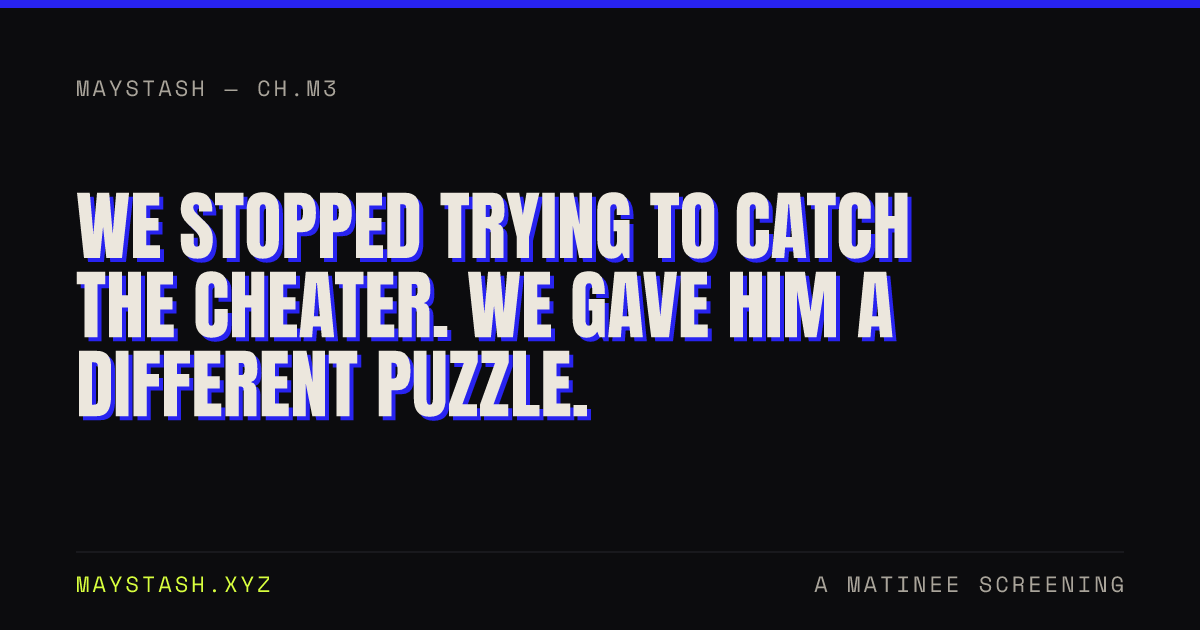
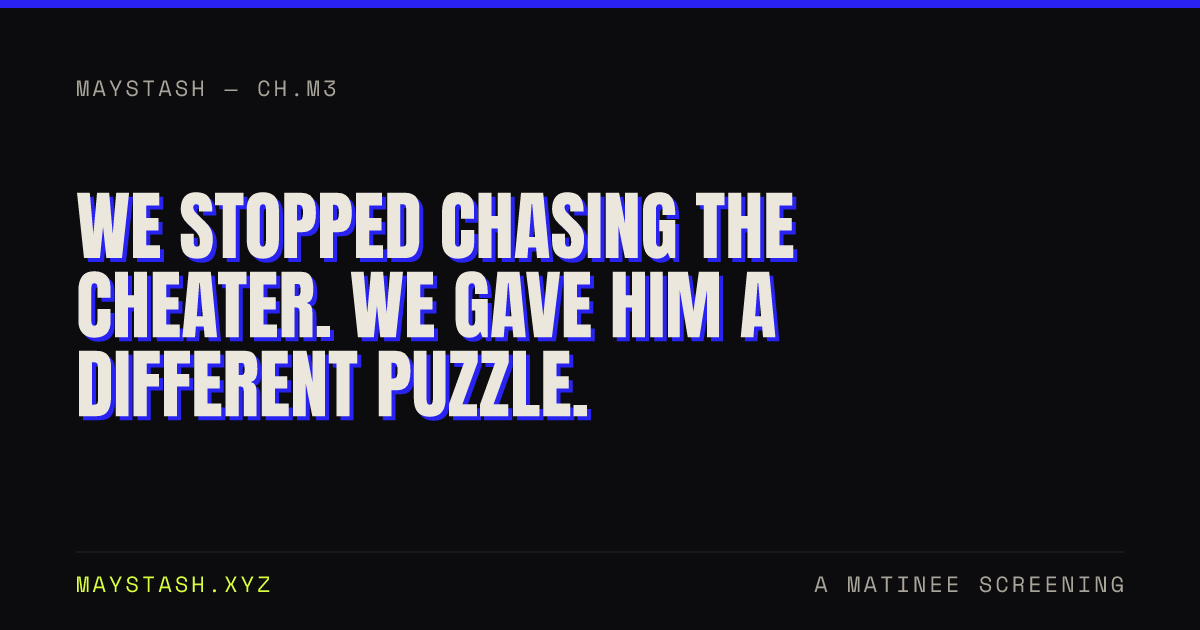
draft: tighten CH.M3 — cut a third, sharpen the beats
Down to ~1,000 words, matching part one's length. Title now leads with
the reversal ("Stopped Chasing"). Five lessons cut to three, audit
section compressed, catch-up trimmed to a line. Scene beats kept:
the morning the game lied to him, the labelled warm-up, the email
that reached the cheater.

Changed region(s): [[0.0617, 0.3016, 0.7708, 0.5429]]

diff --git a/x-article-we-gave-him-a-different-puzzle.md b/x-article-we-gave-him-a-different-puzzle.md
@@ -1,113 +1,101 @@
 # X Article — we-gave-him-a-different-puzzle (follow-up to player-who-never-lost)
 
-Post via X's Article composer (long-form), not a thread. Same body works as-is for LinkedIn — this is the follow-up to the CH.M2 piece already posted there, and it opens by quoting it, so post it as a reply/comment link on that original LinkedIn post too. Cover image: `public/og/we-gave-him-a-different-puzzle.png`. Canonical link at bottom.
+Post via X's Article composer (long-form), not a thread. Same body works as-is for LinkedIn — it's the sequel to the CH.M2 piece already posted there and opens by quoting it, so drop it as a follow-up on that original LinkedIn post. Cover image: `public/og/we-gave-him-a-different-puzzle.png`. Canonical link at bottom.
 
 **Do not** add detail about how the detection actually works — no timing windows, no account-shape conditions, no network/IP signals, no strike counts. See `SecondBrain/memory/projects/dinjure.md`. The warm-up round itself is public and labelled in-app, so describing *that* is fine.
 
 ---
 
-## We Stopped Trying to Catch the Cheater. We Gave Him a Different Puzzle.
+## We Stopped Chasing the Cheater. We Gave Him a Different Puzzle.
 
-Three days ago I published the story of a player on our daily puzzle game who never lost — and how that turned out to be our bug, not his talent. It ended like this:
+Three days ago I published the story of a player on our daily puzzle game who never lost — and how that was our bug, not his talent. It ended like this:
 
 > "The scoreboard's clean again. For now — which is the only version of 'clean' anyone ever actually gets."
 
-I meant that as a wry sign-off. It turned out to be a schedule. *For now* lasted about a day.
+I meant it as a wry sign-off. It was a schedule. *For now* lasted about a day.
 
-This is the sequel, and it has a better ending — because we finally stopped playing detective.
+### The trap of catching people
 
-### Previously, in two sentences
+Quick catch-up: everyone in the world gets the same secret code each day. He'd found a way to see it early, and our answer was to spot the pattern and quietly stop counting his score.
 
-Our daily puzzle gives everyone in the world the same secret code. First we accidentally shipped the recipe for that code inside the game itself, so one player could read the answer key off his own screen. We fixed that; he came back with a second trick — burn through the puzzle on a throwaway account, read the answer off the ending screen, then go solve it "properly" on his real account.
+That worked. Every day. Which sounds like winning.
 
-### He came back. Then he came back again.
+It isn't. Here's what nobody tells you: every time you catch someone, you teach them. He'd adjust. We'd catch the adjustment. He'd adjust again. Each round our rule got longer, and each round he learned the shape of the net by feeling where it wasn't.
 
-Our answer to trick two was to notice the pattern and quietly stop counting scores that showed it. That worked. It kept working, day after day, which sounds like a win.
+That's not security. That's a subscription — and he sets the billing cycle.
 
-It isn't. Here's the thing nobody tells you about catching cheaters: every time you catch someone, you teach them. He'd adjust. We'd catch the adjustment. He'd adjust again. Each round our rule got longer and more specific, and each round he learned a little more about the shape of the net by feeling where it wasn't.
+### The morning the game lied to him
 
-That's not security. That's a subscription. You pay it forever, in attention, and the other person sets the billing cycle.
-
-### The day the game lied to him
-
-Then something funny happened. He tried a version of the trick that skipped signing in altogether — no account at all, not even a throwaway.
+Then he tried a version of the trick with no account at all. Not even a throwaway. Just an anonymous browser window.
 
 And the game handed him a wrong number.
 
-Not on purpose. It was a leftover: the part of our game that works offline still used the old way of making a code, from before we moved the real answer onto our own machines. So a player who never signs in never touches the real puzzle. He grades himself against a ghost.
+Not on purpose. Leftover plumbing: the part of our game that works offline still made codes the old way, from before we moved the real answer onto our own machines. Nobody signed in ever touches the real puzzle. They're graded against a ghost.
 
-He spent that morning solving a code that wasn't the code, then carried it back to his real account and posted his worst result in ten days.
+So he spent that morning cracking a code that wasn't the code, carried it triumphantly back to his real account, and posted his worst result in ten days.
 
-We hadn't built a trap. We'd left one lying around. And staring at it, the actual fix got obvious.
+We hadn't built a trap. We'd left one lying around. And staring at it, the fix finally got obvious.
 
-### What we resorted to: a real puzzle, just not *the* puzzle
+### What we resorted to
 
-Stop asking *how do we spot him.* Ask *what is he actually taking?*
+Stop asking *how do we spot him*. Ask *what is he taking?*
 
-He was taking the ending. The reveal. Every route he found — the answer key, the throwaway account, the signed-out session — was a different way to reach the last screen of today's puzzle before doing it honestly.
+He was taking the ending. Every route he'd found — the answer key, the throwaway account, the anonymous window — was just a cheaper way to reach today's last screen before earning it.
 
-So we stopped defending the ending and removed it from the places he could cheaply reach.
+So we stopped guarding the ending and removed it from everywhere cheap.
 
-As of this week, if you're not signed in, you play a warm-up round. It's a genuine puzzle — same rules, same feedback, same feel. It just isn't today's ranked one. Everyone signed out gets the same warm-up code, and it has nothing to do with the real answer.
+Now, if you're not signed in, you play a warm-up round. A real puzzle. Same rules, same feel. Just not today's ranked one. Scout it all you like, burn ten throwaway accounts on it — at the end you're holding a number that was never the answer to anything.
 
-Scout it all you want. Burn ten throwaway accounts on it. At the end you're holding a number that was never the answer to anything that counts.
+The ranked daily needs an account you keep. Which is precisely what a disposable identity can't be.
 
-The ranked daily now requires an account — one you keep, that keeps your streak and your history and your name. Exactly the thing a disposable identity can't be.
+Detection is rent. This was a purchase.
 
-That's the whole switch: from catching people after, to there being nothing worth stealing. Detection is rent. This was a purchase.
+### Why we put it on the screen
 
-### We labelled it instead of hiding it
+The obvious version is a silent decoy: quietly serve suspicious players a fake puzzle, let them waste the morning. We deliberately didn't. It says "warm-up round," in plain words, to everyone.
 
-The obvious version of this idea is a silent decoy — quietly hand suspicious players a fake puzzle and let them waste their morning without knowing.
+Partly honesty — our game shows a receipt at the end proving the answer wasn't rigged, and showing that receipt to someone secretly playing a different code makes it a lie.
 
-We deliberately didn't. It's called a warm-up round, on screen, in plain words.
+Mostly arithmetic: a labelled decoy leaks exactly as much as a secret one, which is nothing. Knowing "this isn't the real one" tells you zero about the real one. Secrecy bought us nothing; honesty was free. When you find one of those, take it.
 
-The honest reason: our game shows a "provably fair" receipt at the end so you can verify the answer wasn't rigged after the fact. Showing that receipt to someone secretly playing a different code would make it a lie — and that receipt is the entire reason anyone trusts a daily puzzle.
+### The fix found worse than the cheat
 
-The practical reason: a labelled decoy leaks exactly as much as a secret one — which is nothing. Knowing "this warm-up isn't the real one" tells you zero about the real one. Secrecy bought us nothing and honesty was free. When you find one of those, take it.
+Sorting *real puzzle* from *warm-up* meant checking every place in the game that treats a game as real. Six of them were still counting warm-ups as genuine — including the one that posts the day's best score publicly. We'd have been announcing practice runs as records.
 
-### Building the fix found worse things than the cheat
+Worse: one spot saved your in-progress guesses by grading them against the real answer, even mid-warm-up. That's not a scoreboard bug. That's the exact leak the warm-up round exists to close, sitting quietly in another room. Nobody was exploiting it. Nobody had noticed.
 
-Once we started sorting *real puzzle* from *warm-up puzzle*, we had to check every place in the game that treats a game as real. Six more of them were still counting warm-up games as the genuine article — including one that posts the day's best score to our public account. We'd have been tweeting practice results as records.
+And a stray one, unrelated to cheating: a badly-timed network hiccup could decide you weren't logged in and hand you a blank new identity. Real accounts, wiped mid-session, occasionally, for months.
 
-Worse, we found a spot where the game saved your in-progress guesses by grading them against the real answer — even during a warm-up. That's not a scoreboard bug. That's the exact leak the entire warm-up round exists to close, sitting quietly in a different room. Nobody was exploiting it. Nobody had noticed it. It had been there the whole time.
+None of that took cleverness. It took listing every place that answers one question and reading them all.
 
-Separately, a bug fell out that had nothing to do with cheating: if the network hiccuped at the wrong moment, the game would decide you weren't really logged in and hand you a blank new identity. Real people, real accounts, occasionally wiped mid-session — quietly, for months, with no complaint loud enough to spot in the data.
+### Then we emailed it to him
 
-None of this was found by being clever. It was found by making a list of every place that answers one question, and reading them all. That's the whole technique.
+Last move: we told our players what the warm-up round is and why it exists.
 
-### Then we told everyone. Including him.
+The player this was all built for is on that mailing list. He signed up in July.
 
-The last move was emailing our players to explain the warm-up round in plain language — what it is, why it exists, what changed.
+He got the email too, and that's the point. A countermeasure nobody knows about can only catch people. One everybody knows about ends the game. Telling a scout the route is dead beats watching that route forever, and it beats a ban. He can still play every day. He just can't shop for the answer, because the shelf is empty.
 
-Our mailing list is people who ticked a box asking to hear when things change. The player this was all built for is on it. He signed up in July.
+### Three things worth stealing
 
-So he got the email too, and that's not an accident. A countermeasure nobody knows about can only catch people. A countermeasure everybody knows about ends the game. Telling a scout the route is dead is cheaper than watching the route forever, and kinder than a ban. He can still play every day. He just can't shop for the answer anymore, because there's nothing on that shelf.
+**Ask what's being taken, not who's taking it.** Every hour spent on *who* bought a rule with a shelf life. One hour on *what* bought a fix without one.
 
-### Five things worth stealing from this
+**Anything free and unlimited gets used at scale by exactly one person you didn't picture.** Ours was free accounts, offered as a kindness to first-timers. It stayed a kindness. It also became a supply line.
 
-**Ask what's being taken, not who's taking it.** Every hour spent on *who* produced a rule with a shelf life. The one hour spent on *what* produced a fix with none.
-
-**Every detection rule you ship is a lesson you give away.** If the only thing between someone and the prize is your ability to notice, you've signed up for a permanent job.
-
-**Anything free and unlimited will eventually be used at scale by exactly one person you didn't have in mind.** Ours was free accounts, offered as a kindness to first-timers. It stayed a kindness. It also became a supply line.
-
-**A secret defense is only worth building if the secret buys something.** Ours bought nothing, so we put it on screen in plain words and got trust for free.
-
-**The audit is worth more than the fix.** The cheat cost us a scoreboard. Going looking for every place that could leak the same thing cost an afternoon and turned up a live hole nobody was even using — plus a bug that had been silently logging real people out for months.
+**The audit beats the fix.** The cheat cost us a scoreboard. Going looking for everywhere else the same thing could leak cost an afternoon — and turned up a live hole nobody was even using.
 
 ### Is it over?
 
-No, and I'd rather say so than write another confident closing line and have it expire in twenty-four hours.
+No, and I'd rather say so than write another confident last line and watch it expire in a day.
 
-There's still a route we know about: someone determined enough can make a throwaway account, with a real email, in about twenty seconds. We could close it. We've chosen not to yet, because it would also punish every genuine new player on their first day, and there are far more of those than there are of him. That's not a technical call, it's a trade, and we made it on purpose.
+One route survives: a determined person can make a throwaway account with a real email in twenty seconds. We could close it. We haven't, because it would punish every genuine new player on day one, and there are far more of them than of him. That's a trade, not an oversight.
 
-So: the scoreboard is clean. Not "for now" this time — clean along the routes we removed. A smaller claim, and a truer one.
+So the scoreboard is clean — not "for now" this time, but along the routes we removed. Smaller claim. Truer one.
 
-If it breaks again, you'll get part three.
+If it breaks again, you get part three.
 
 ---
 
 Part one, if you missed it: https://maystash.xyz/posts/player-who-never-lost/
 
-Full write-up of this one: https://maystash.xyz/posts/we-gave-him-a-different-puzzle/
+Full write-up: https://maystash.xyz/posts/we-gave-him-a-different-puzzle/

diff --git a/src/posts/we-gave-him-a-different-puzzle.md b/src/posts/we-gave-him-a-different-puzzle.md
@@ -1,6 +1,6 @@
 ---
-title: "We Stopped Trying to Catch the Cheater. We Gave Him a Different Puzzle."
-tagline: "Three days ago we wrote that our scoreboard was clean 'for now.' For now lasted about a day. Here's the fix we resorted to — and why it's the opposite of catching people."
+title: "We Stopped Chasing the Cheater. We Gave Him a Different Puzzle."
+tagline: "Three days ago we said our scoreboard was clean 'for now.' For now lasted a day. Then the game accidentally lied to him — and that accident turned out to be the fix."
 date: 2026-08-04
 chapter: "M3"
 section: "matinee"
@@ -10,106 +10,90 @@ draft: true
 
 INT. THE SAME LEADERBOARD — THREE DAYS LATER.
 
-Last week we published the story of a player who never lost, and how that turned out to be our bug and not his talent. It ended like this:
+Last week I wrote about the player on our daily puzzle who never lost, and how that was our bug rather than his talent. It ended like this:
 
 > "The scoreboard's clean again. For now — which is the only version of 'clean' anyone ever actually gets."
 
-We meant that as a wry sign-off. It turned out to be a schedule. *For now* lasted about a day.
+I meant it as a wry sign-off. It was a schedule. *For now* lasted about a day.
 
-This is the sequel, and it has a better ending than the first one — because we finally stopped playing detective.
+## The trap of catching people
 
-## Previously, in two sentences
+Quick catch-up: everyone in the world gets the same secret code each day. He'd found a way to see it early — [full story here](/posts/player-who-never-lost/) — and our answer was to spot the pattern and quietly stop counting his score.
 
-Our daily puzzle gives everyone in the world the same secret code. First we accidentally shipped the recipe for that code inside the game itself, so one player could read the answer key off his own screen. We fixed that; he came back with a second trick — burn through the puzzle on a throwaway account, read the answer off the ending screen, then go solve it "properly" on his real account.
+That worked. Every day. Which sounds like winning.
 
-[The full story is here](/posts/player-who-never-lost/), and you don't need it to follow this one.
+It isn't. Here's what nobody tells you: **every time you catch someone, you teach them.** He'd adjust. We'd catch the adjustment. He'd adjust again. Each round our rule got longer, and each round he learned the shape of the net by feeling where it wasn't.
 
-## He came back. Then he came back again.
+That's not security. That's a subscription — and he sets the billing cycle.
 
-Our answer to trick number two was to notice the pattern and quietly stop counting scores that showed it. That worked. It kept working, day after day, which sounds like a win.
+## The morning the game lied to him
 
-It isn't. Here's the thing nobody tells you about catching cheaters: **every time you catch someone, you teach them.** He'd adjust. We'd catch the adjustment. He'd adjust again. Each round, our rule got longer and more specific, and each round he learned a little more about the shape of the net by feeling where it wasn't.
-
-That's not security. That's a subscription. You pay it forever, in attention, and the other person sets the billing cycle.
-
-## The day the game lied to him
-
-Then something funny happened. He tried a version of the trick that skipped signing in altogether — no account at all, not even a throwaway.
+Then he tried a version of the trick with no account at all. Not even a throwaway. Just an anonymous browser window.
 
 And the game handed him a wrong number.
 
-Not on purpose. It was a leftover: the part of our game that works when you're offline still used the *old* way of making a code, the one from before we moved the real answer onto our own machines. So a player who never signs in never touches the real puzzle. He grades himself against a ghost.
+Not on purpose. Leftover plumbing: the part of our game that works offline still made codes the *old* way, from before we moved the real answer onto our own machines. Nobody signed in ever touches the real puzzle. They're graded against a ghost.
 
-He spent that morning solving a code that wasn't the code, then carried it back to his real account and posted his worst result in ten days.
+So he spent that morning cracking a code that wasn't the code, carried it triumphantly back to his real account, and posted his worst result in ten days.
 
-We hadn't built a trap. We'd left one lying around. And staring at it, the actual fix finally got obvious.
+We hadn't built a trap. We'd left one lying around. And staring at it, the fix finally got obvious.
 
-## What we resorted to: give them a real puzzle, just not *the* puzzle
+## What we resorted to
 
-Stop asking *how do we spot him.* Ask *what is he actually taking?*
+Stop asking *how do we spot him*. Ask *what is he taking?*
 
-He was taking the ending. The reveal. Every route he'd found — the answer key, the throwaway account, the signed-out session — was a different way to reach the last screen of today's puzzle before doing it honestly.
+He was taking the ending. Every route he'd found — the answer key, the throwaway account, the anonymous window — was just a cheaper way to reach today's last screen before earning it.
 
-So we stopped defending the ending and removed it from the places he could cheaply reach.
+So we stopped guarding the ending and removed it from everywhere cheap.
 
-**As of this week, if you're not signed in, you play a warm-up round.** It's a genuine puzzle. Same rules, same feedback, same feel. It just isn't today's ranked one. Everybody who's signed out gets the same warm-up code, and it has nothing to do with the real answer.
+**Now, if you're not signed in, you play a warm-up round.** A real puzzle. Same rules, same feel. Just not today's ranked one. Scout it all you like, burn ten throwaway accounts on it — at the end you're holding a number that was never the answer to anything.
 
-Scout it all you want. Burn ten throwaway accounts on it. At the end you're holding a number that was never the answer to anything that counts.
+The ranked daily needs an account you keep. Which is precisely what a disposable identity can't be.
 
-The ranked daily now requires an account — one you keep, that keeps your streak and your history and your name. Which is exactly the thing a disposable identity can't be.
+Detection is rent. This was a purchase.
 
-That's the whole switch: from *catching people after* to *there being nothing worth stealing.* Detection is rent. This was a purchase.
+## Why we put it on the screen
 
-## We labelled it instead of hiding it
+The obvious version is a silent decoy: quietly serve suspicious players a fake puzzle, let them waste the morning. We deliberately didn't. It says "warm-up round," in plain words, to everyone.
 
-The obvious version of this idea is a silent decoy — quietly hand suspicious players a fake puzzle and let them waste their morning without knowing.
+Partly honesty — our game shows a receipt at the end proving the answer wasn't rigged, and showing that receipt to someone secretly playing a different code makes it a lie.
 
-We deliberately didn't. It's called a warm-up round, on screen, in plain words.
+Mostly arithmetic: **a labelled decoy leaks exactly as much as a secret one, which is nothing.** Knowing "this isn't the real one" tells you zero about the real one. Secrecy bought us nothing; honesty was free. When you find one of those, take it.
 
-Two reasons. The honest one: our game shows a "provably fair" receipt at the end so you can verify the answer wasn't rigged after the fact. Showing that receipt to someone secretly playing a different code would make it a lie, and the receipt is the entire reason anyone trusts a daily puzzle.
+## The fix found worse than the cheat
 
-The practical one: **a labelled decoy leaks exactly as much as a secret decoy — which is nothing.** Knowing "this warm-up isn't the real one" tells you zero about the real one. The secrecy bought us nothing, and honesty was free. When you find one of those, take it.
+Sorting *real puzzle* from *warm-up* meant checking every place in the game that treats a game as real. Six of them were still counting warm-ups as genuine — including the one that posts the day's best score publicly. We'd have been announcing practice runs as records.
 
-## Building the fix found worse things than the cheat
+Worse: one spot saved your in-progress guesses by grading them against the **real** answer, even mid-warm-up. That's not a scoreboard bug. That's the exact leak the warm-up round exists to close, sitting quietly in another room. Nobody was exploiting it. Nobody had noticed.
 
-This is the part I'd want to read if this were someone else's write-up.
+And a stray one, unrelated to cheating: a badly-timed network hiccup could decide you weren't logged in and hand you a blank new identity. Real accounts, wiped mid-session, occasionally, for months.
 
-Once we started sorting *real puzzle* from *warm-up puzzle*, we had to check every single place in the game that treats a game as real. There turned out to be **six more of them** still counting warm-up games as the genuine article — including one that posts the day's best score to our public account. We'd have been tweeting practice results as if they were records.
+None of that took cleverness. It took listing every place that answers one question and reading them all.
 
-Worse, we found a spot where the game saved your in-progress guesses by grading them against the **real** answer — even during a warm-up. That's not a scoreboard bug. That's the exact leak the entire warm-up round exists to close, sitting quietly in a different room. Nobody was exploiting it. Nobody had noticed it. It had been there the whole time.
+## Then we emailed it to him
 
-And separately, while testing all this, a bug fell out that had nothing to do with cheating at all: if the network hiccuped at the wrong moment, the game would decide you weren't really logged in and hand you a blank new identity. Real people, real accounts, occasionally wiped mid-session — quietly, for months, with no complaint loud enough to spot in the data.
+Last move: we told our players what the warm-up round is and why it exists.
 
-None of these were found by being clever. They were found by *making a list of every place that answers one question* and reading them all. That's it. That's the technique.
+The player this was all built for is on that mailing list. He signed up in July.
 
-## Then we told everyone. Including him.
+He got the email too, and that's the point. **A countermeasure nobody knows about can only catch people. One everybody knows about ends the game.** Telling a scout the route is dead beats watching that route forever, and it beats a ban. He can still play every day. He just can't shop for the answer, because the shelf is empty.
 
-The last move was to email our players and explain the warm-up round in plain language — what it is, why it exists, what changed.
+## Three things worth stealing
 
-Our mailing list is people who ticked a box asking to hear when things change. The player this was all built for is on it. He signed up in July.
+**Ask what's being taken, not who's taking it.** Every hour spent on *who* bought a rule with a shelf life. One hour on *what* bought a fix without one.
 
-So he got the email too, and that's not an accident. **A countermeasure nobody knows about can only catch people. A countermeasure everybody knows about ends the game.** Telling a scout that the route is dead is cheaper than watching the route forever, and kinder than a ban. He can still play every day. He just can't shop for the answer anymore, because there's nothing on that shelf.
+**Anything free and unlimited gets used at scale by exactly one person you didn't picture.** Ours was free accounts, offered as a kindness to first-timers. It stayed a kindness. It also became a supply line.
 
-## The five things worth stealing from this
-
-**Ask what's being taken, not who's taking it.** Every hour we spent on *who* produced a rule with a shelf life. The one hour we spent on *what* produced a fix with none.
-
-**Every detection rule you ship is a lesson you give away.** If the only thing standing between someone and the prize is your ability to notice, you've signed up for a permanent job.
-
-**Anything free and unlimited will eventually be used at scale by exactly one person you didn't have in mind.** Ours was free accounts, offered as a kindness to first-timers. It stayed a kindness. It also became a supply line.
-
-**A secret defense is only worth building if the secret buys something.** Ours bought nothing, so we put it on the screen in plain words and got trust for free.
-
-**The audit is worth more than the fix.** The cheat cost us a scoreboard. Going looking for every place that could leak the same thing cost us an afternoon and turned up a live hole nobody was even using, plus a bug that had been silently logging real people out for months.
+**The audit beats the fix.** The cheat cost us a scoreboard. Going looking for everywhere else the same thing could leak cost an afternoon — and turned up a live hole nobody was even using.
 
 ## Is it over?
 
-No, and I'd rather say so than write another confident closing line and have it expire in twenty-four hours.
+No, and I'd rather say so than write another confident last line and watch it expire in a day.
 
-There's still a route we know about: someone determined enough can make a throwaway *account*, with a real email, in about twenty seconds. We could close it. We've chosen not to yet, because doing so would also punish every genuine new player on their first day, and there are far more of those than there are of him. That's not a technical call, it's a trade, and we made it on purpose with our eyes open.
+One route survives: a determined person can make a throwaway account with a real email in twenty seconds. We could close it. We haven't, because it would punish every genuine new player on day one, and there are far more of them than of him. That's a trade, not an oversight.
 
-So: the scoreboard is clean. Not "for now" this time — clean *along the routes we removed*, which is a smaller claim and a truer one.
+So the scoreboard is clean — not "for now" this time, but *along the routes we removed*. Smaller claim. Truer one.
 
-If it breaks again, you'll get part three.
+If it breaks again, you get part three.
 
 CUT TO BLACK.
